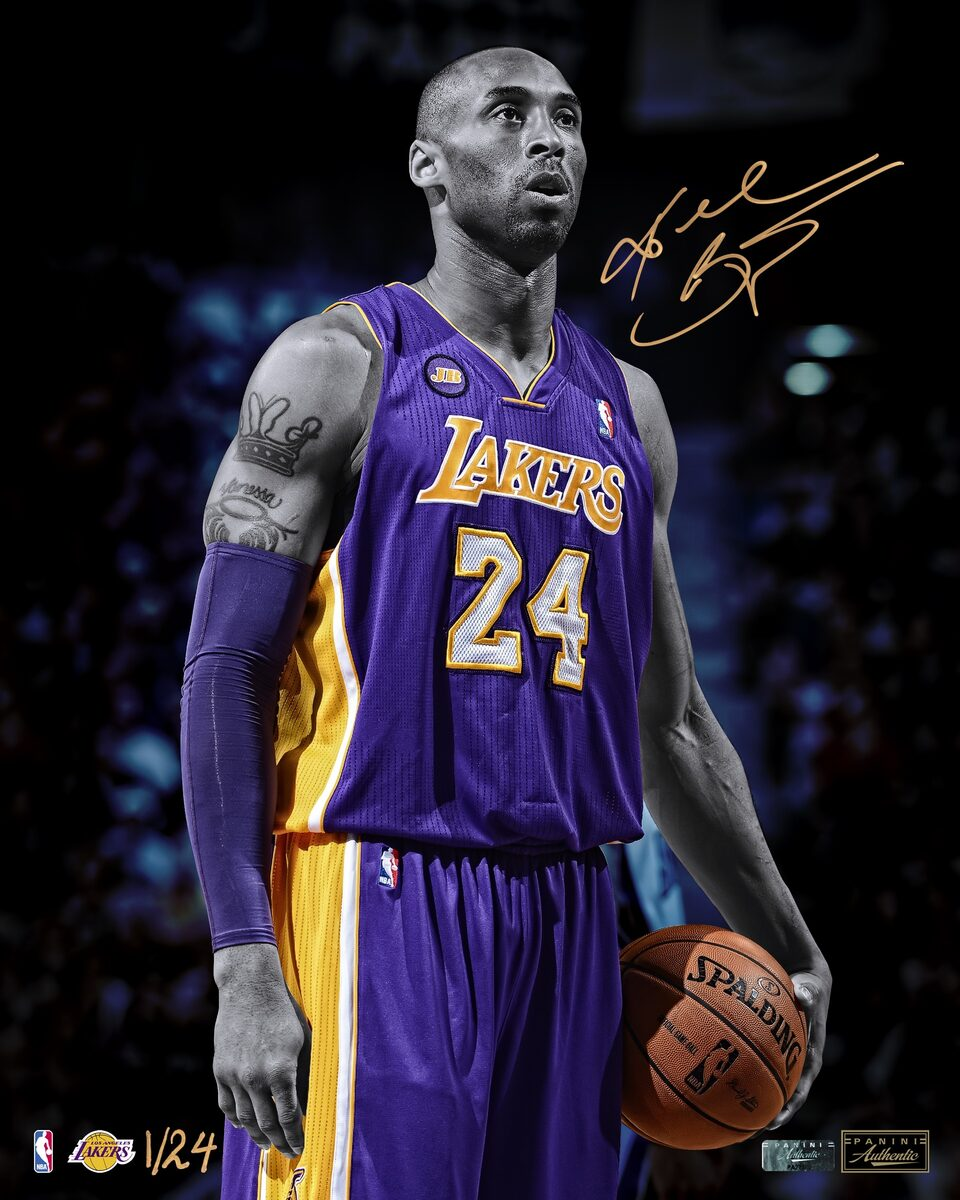
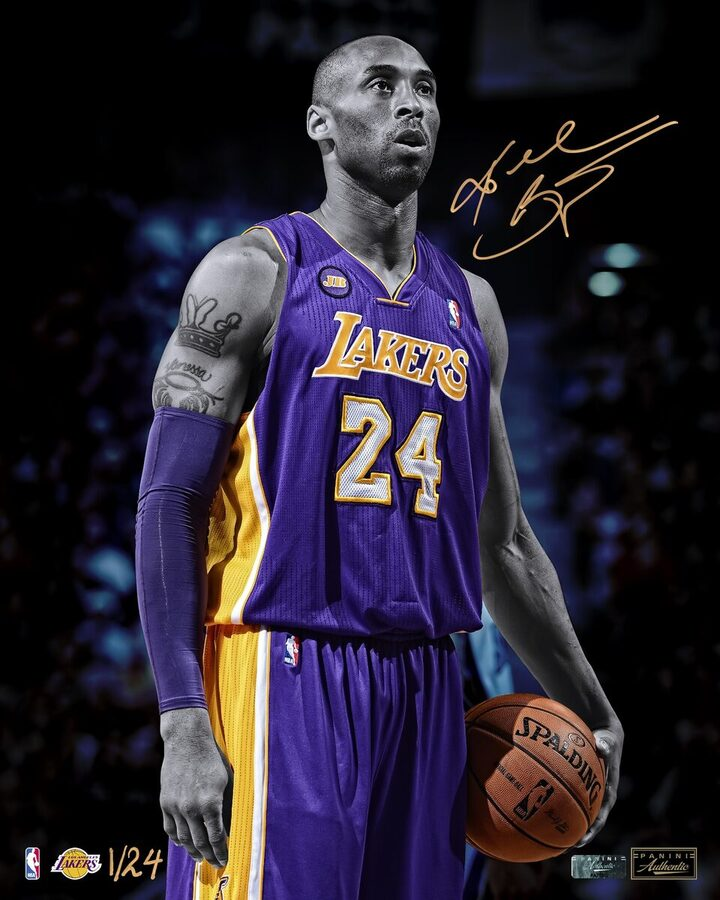
perf: decode images ahead of arrival + shrink the flow JPEGs again
Measured cause of the worst stutter on this page is image DECODE, not steady
load: on battery the flow grid averaged 35fps but dropped to a 7fps 5%-low,
because a full-size JPEG gets decoded on the main thread at the moment it must
first be painted. Halving the flow images' pixel count took that 5%-low from
7 to 23.

loading="lazy" controls when a file is FETCHED and decoding="async" merely
permits an off-thread decode; neither guarantees the decode has finished
before the first paint that needs it. img.decode() does — it resolves once the
bitmap is ready, off the main thread. So decode every image while it is still
~1.5 screens away (IntersectionObserver, rootMargin 1500px) and the frame that
finally paints it has nothing left to do.

Deliberately NOT decoding everything up front: the certificate slides are
full-screen (~1.5M px each) and all 18 images together are ~58MB of RGBA.
Decoding on approach keeps peak memory sane while still removing the spike.
Images added later — cert slides, project cards and flow cards are all built
by JS — are picked up by a MutationObserver on document.body.

- cert slides gain decoding="async" alongside their existing loading="lazy".
- images/flow re-encoded down to the largest size they actually display at 2x:
  build-ship 960x1200 -> 720x900 (167KB -> 95KB), data-collection 1300x1209 ->
  774x720 (376KB -> 129KB), processing-storage 2048x1166 -> 1265x720
  (482KB -> 65KB).

diff --git a/main.js b/main.js
@@ -645,7 +645,7 @@
         var title = esc(c.title || ("Certificate " + (i + 1)));
         // encodeURI: the PDF filenames have spaces. The PNG is shown; the link opens the real PDF.
         return '<div class="cert-slide"><figure class="cert-slide__fig">' +
-          '<img class="cert-slide__img" src="' + encodeURI(c.img) + '" alt="' + title + '" loading="lazy">' +
+          '<img class="cert-slide__img" src="' + encodeURI(c.img) + '" alt="' + title + '" loading="lazy" decoding="async">' +
           (c.pdf ? '<a class="cert-slide__open" href="' + encodeURI(c.pdf) + '" target="_blank" rel="noopener">Open ' + title + ' ↗</a>' : '') +
           '</figure></div>';
       }).join("");
@@ -2949,4 +2949,57 @@
   if (window.__lenis && typeof window.__lenis.on === "function") window.__lenis.on("scroll", onScroll);
   if (feed.complete) render(); else feed.addEventListener("load", render);
   render();
+})();
+
+/* ---------- Ahead-of-arrival image decoding ----------
+   Measured cause of the worst stutter on this page: image DECODE. On battery the flow
+   grid was averaging 35fps but dropping to a 7fps 5%-low — spikes, not steady load,
+   because a full-size JPEG gets decoded on the main thread at the moment it must first
+   be painted. Halving the flow images' pixel count took that 5%-low from 7 to 23.
+
+   loading="lazy" controls when a file is FETCHED and decoding="async" merely permits an
+   off-thread decode; neither guarantees the decode is finished before the first paint that
+   needs it. img.decode() does: it resolves once the bitmap is ready, and the work happens
+   off the main thread. So decode every image while it is still ~1.5 screens away, and the
+   frame that finally paints it has nothing left to do.
+
+   Deliberately NOT decoding everything up front — the certificate slides are full-screen
+   (~1.5M px each) and all 18 images together are ~58MB of RGBA. Decoding on approach keeps
+   peak memory sane while still removing the spike. Images added later (cert slides, project
+   cards, flow cards are all built by JS) are picked up by the MutationObserver. */
+(function preDecodeImages() {
+  if (!("IntersectionObserver" in window) || !("MutationObserver" in window)) return;
+
+  var io = new IntersectionObserver(function (entries) {
+    for (var i = 0; i < entries.length; i++) {
+      var e = entries[i];
+      if (!e.isIntersecting) continue;
+      var img = e.target;
+      io.unobserve(img);
+      // decode() rejects if the element is detached or the source is broken — ignore both,
+      // the browser just falls back to decoding at paint time as it does today.
+      if (img.decode) { img.decode().catch(function () {}); }
+    }
+  }, { rootMargin: "1500px 0px" });
+
+  function watch(root) {
+    var imgs = root.querySelectorAll ? root.querySelectorAll("img") : [];
+    for (var i = 0; i < imgs.length; i++) {
+      var im = imgs[i];
+      if (im.__preDec) continue;
+      im.__preDec = 1;
+      io.observe(im);
+    }
+    if (root.tagName === "IMG" && !root.__preDec) { root.__preDec = 1; io.observe(root); }
+  }
+
+  watch(document);
+  new MutationObserver(function (muts) {
+    for (var m = 0; m < muts.length; m++) {
+      var added = muts[m].addedNodes;
+      for (var n = 0; n < added.length; n++) {
+        if (added[n].nodeType === 1) watch(added[n]);
+      }
+    }
+  }).observe(document.body, { childList: true, subtree: true });
 })();
